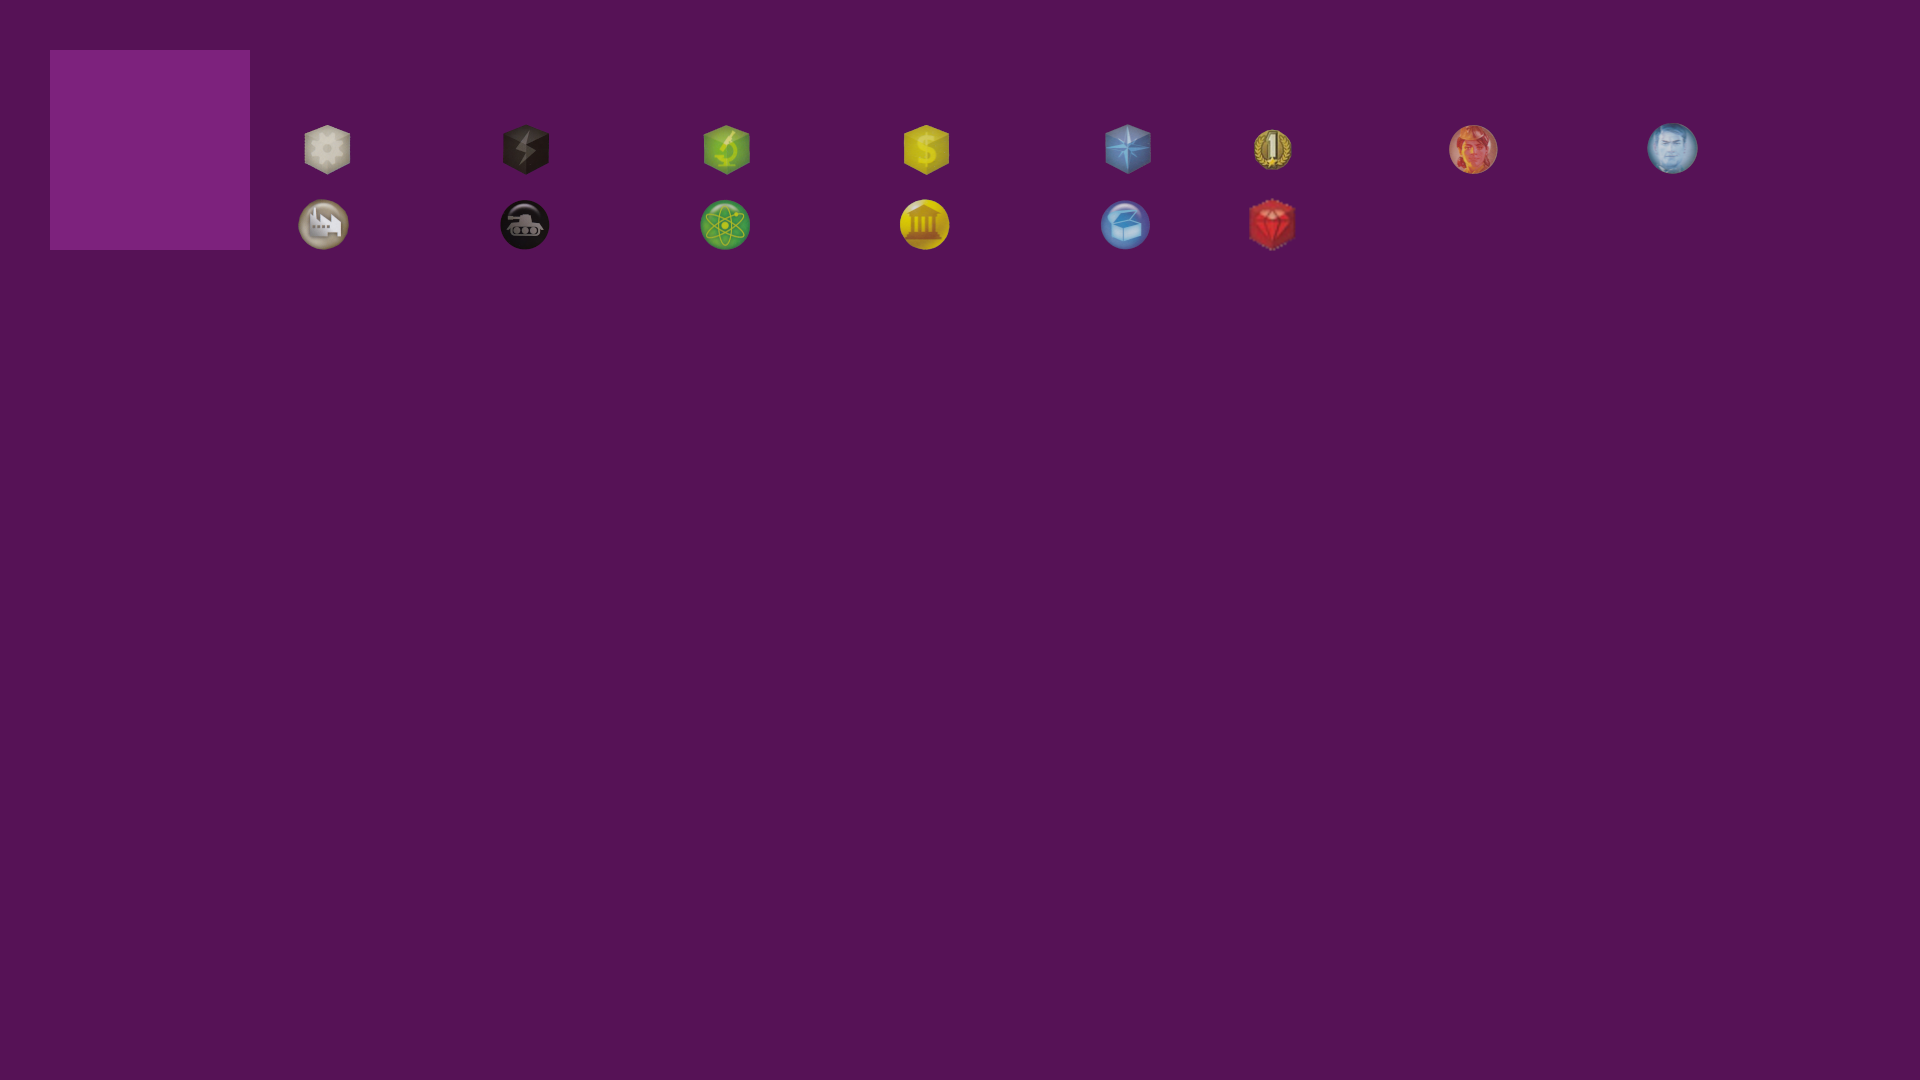
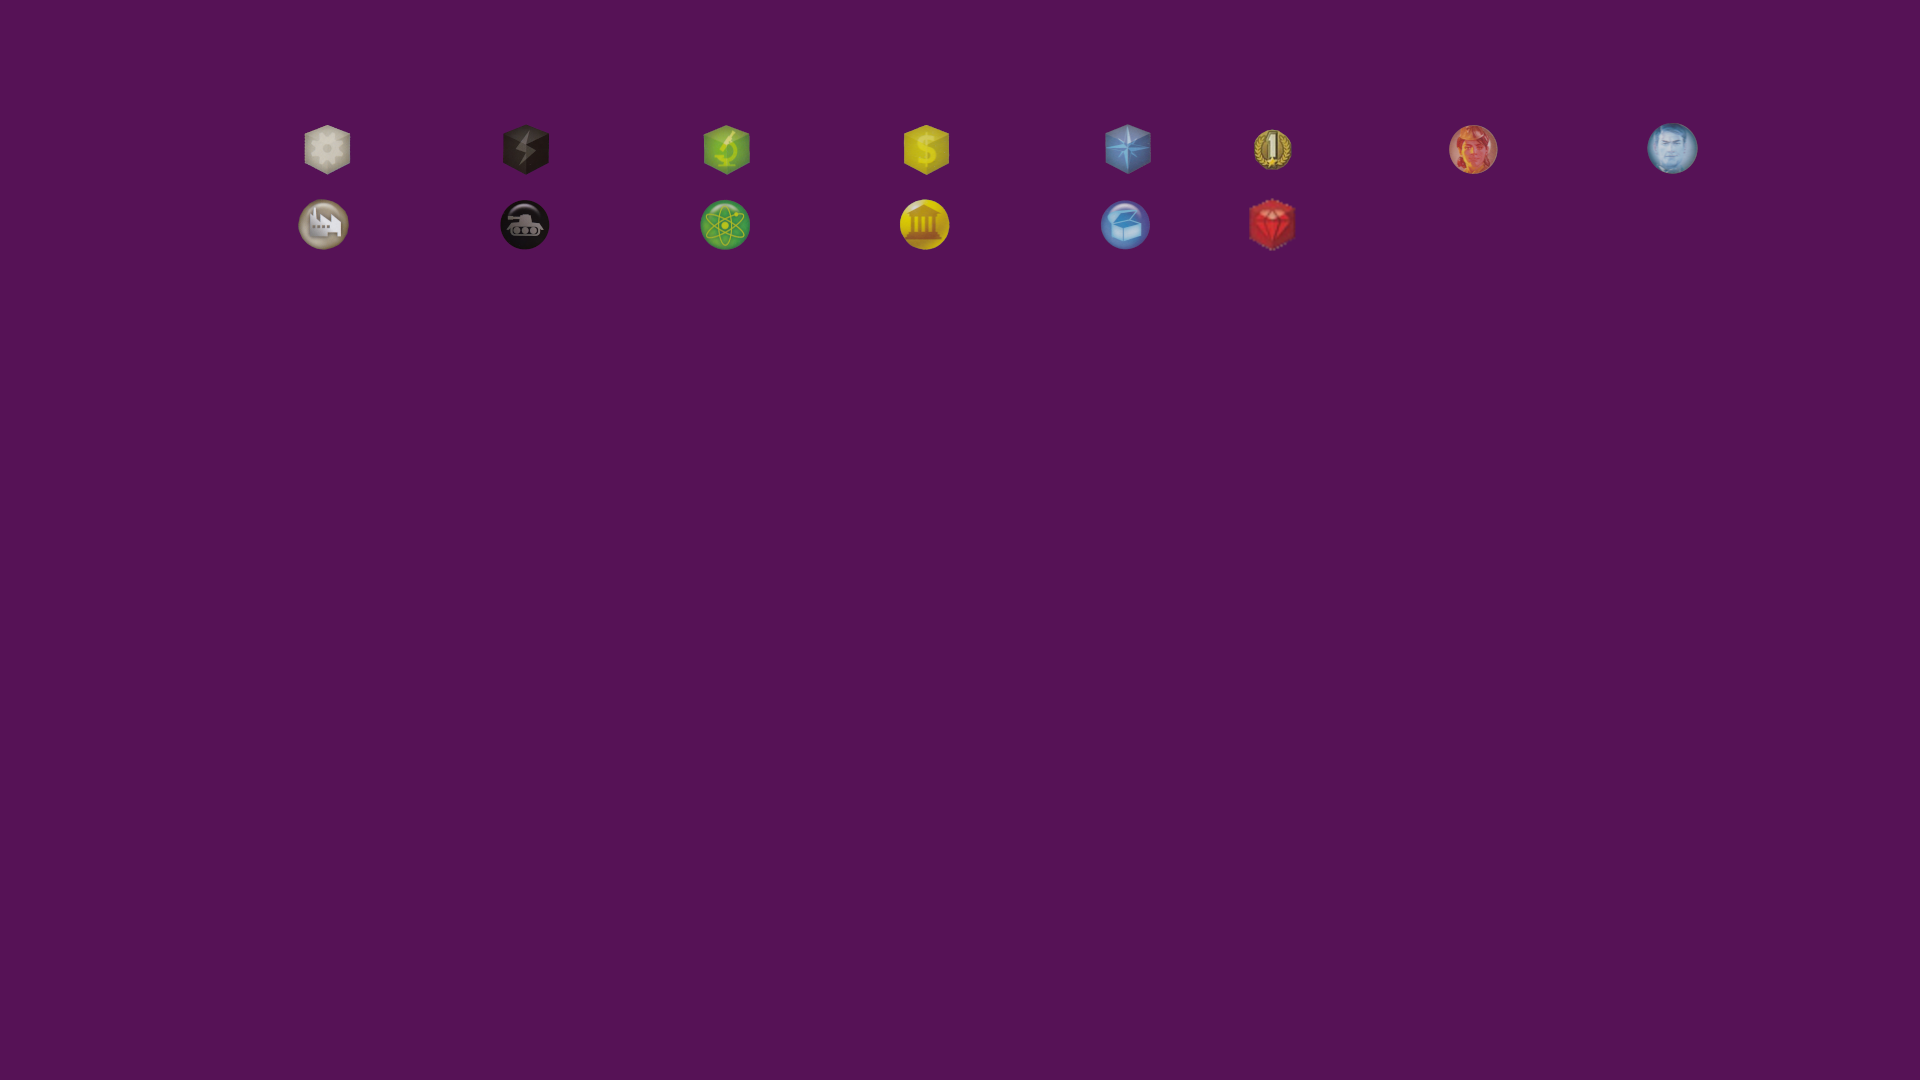
**refactor : Change Profile Picture**
_Commit Description:_

Replace profile pictures by Empire Cards in rendering

[CR #052]

Changed region(s): [[0.0, 0.0306, 0.1562, 0.2444]]

diff --git a/src/client/render/PlayerRenderer.cpp b/src/client/render/PlayerRenderer.cpp
@@ -42,16 +42,14 @@ namespace render {
 			this->sprites.push_back(sprite);					//Sprite
 			this->sprite_transforms.push_back(transform);				//Transform
 
-			
-			// To modify to place empire Card instead
-			//Enter Player Profile Picture (position 1 in sprites)
-			
-			// texture = player->getProfilePicture();
-			// this->textures.push_back(texture);					//Texture
-			// sprite= new sf::Sprite();
-			// sprite->setTexture(*(this->textures[1]));
-			// this->sprites.push_back(sprite);					//Sprite
-			// this->sprite_transforms.push_back(sf::Transform(sprite_transforms[0]).translate(20.f,20.f));				//Transform
+			// Enter Player Empire Card (position 1 in sprites)
+			texture = new sf::Texture();
+			texture->loadFromFile(this->player->getEmpire()->getRelativePathToTexture());
+			this->textures.push_back(texture);					//Texture
+			sprite= new sf::Sprite();
+			sprite->setTexture(*(this->textures[1]));
+			this->sprites.push_back(sprite);					//Sprite
+			this->sprite_transforms.push_back(sf::Transform(sprite_transforms[0]).translate(20.f,20.f).scale(0.2f,0.2f));				//Transform
 
 			//Enter Player Name (position 0 in texts)
 			text = new sf::Text();
@@ -60,7 +58,7 @@ namespace render {
 			text->setCharacterSize(30);
 			text->setFillColor(sf::Color::White);
 			this->texts.push_back(text);			//Text
-			this->text_transforms.push_back(sf::Transform(sprite_transforms[0]).translate(140.f,30.0f));		//Transform
+			this->text_transforms.push_back(sf::Transform(sprite_transforms[0]).translate(200.f,30.0f));		//Transform
 
 			//Enter Resources/Constructions Count (position 1 to 10)
 			for (i=0;i<10;i++){
@@ -94,15 +92,14 @@ namespace render {
 			this->sprites.push_back(sprite);					//Sprite
 			this->sprite_transforms.push_back(transform);				//Transform
 
-			// To modify to place empire Card instead
-
-			//Enter Player Profile Picture (position 1 in sprites)
-			// texture = player->getProfilePicture();
-			// this->textures.push_back(texture);					//Texture
-			// sprite= new sf::Sprite();
-			// sprite->setTexture(*(this->textures[1]));
-			// this->sprites.push_back(sprite);					//Sprite
-			// this->sprite_transforms.push_back(sf::Transform(sprite_transforms[0]).translate(10.f,50.f));				//Transform
+			// Enter Player Empire Card (position 1 in sprites)
+			texture = new sf::Texture();
+			texture->loadFromFile(this->player->getEmpire()->getRelativePathToTexture());
+			this->textures.push_back(texture);					//Texture
+			sprite= new sf::Sprite();
+			sprite->setTexture(*(this->textures[1]));
+			this->sprites.push_back(sprite);					//Sprite
+			this->sprite_transforms.push_back(sf::Transform(sprite_transforms[0]).translate(10.f,50.f).scale(0.2f,0.2f));				//Transform
 
 			//Enter Player Name (position 0 in texts)
 			text = new sf::Text();
@@ -124,15 +121,14 @@ namespace render {
 			this->sprites.push_back(sprite);					//Sprite
 			this->sprite_transforms.push_back(transform);				//Transform
 
-			// To modify to place empire Card instead
-
-			//Enter Player Profile Picture (position 1 in sprites)
-			// texture = player->getProfilePicture();
-			// this->textures.push_back(texture);					//Texture
-			// sprite= new sf::Sprite();
-			// sprite->setTexture(*(this->textures[1]));
-			// this->sprites.push_back(sprite);					//Sprite
-			// this->sprite_transforms.push_back(sf::Transform(sprite_transforms[0]).translate(50.f,50.f).scale(2.f,2.f).scale(1.f,(431.f/375.f)));				//Transform
+			// Enter Player Empire Card (position 1 in sprites)
+			texture = new sf::Texture();
+			texture->loadFromFile(this->player->getEmpire()->getRelativePathToTexture());
+			this->textures.push_back(texture);					//Texture
+			sprite= new sf::Sprite();
+			sprite->setTexture(*(this->textures[1]));
+			this->sprites.push_back(sprite);					//Sprite
+			this->sprite_transforms.push_back(sf::Transform(sprite_transforms[0]).translate(50.f,70.f).scale(0.3f,0.3f));				//Transform
 
 			//Enter Player Name (position 0 in texts)
 			text = new sf::Text();
@@ -219,15 +215,14 @@ namespace render {
 			this->sprites.push_back(sprite);					//Sprite
 			this->sprite_transforms.push_back(sf::Transform(transform).scale(2.f,2.f));				//Transform
 
-			// To modify to place empire Card instead
-
-			//Enter Player Profile Picture (position 3 in sprites)
-			// texture = player->getProfilePicture();
-			// this->textures.push_back(texture);					//Texture
-			// sprite= new sf::Sprite();
-			// sprite->setTexture(*(this->textures[3]));
-			// this->sprites.push_back(sprite);					//Sprite
-			// this->sprite_transforms.push_back(sf::Transform(sprite_transforms[2]).translate(20.f,20.f));				//Transform
+			// Enter Player Empire Card (position 1 in sprites)
+			texture = new sf::Texture();
+			texture->loadFromFile(this->player->getEmpire()->getRelativePathToTexture());
+			this->textures.push_back(texture);					//Texture
+			sprite= new sf::Sprite();
+			sprite->setTexture(*(this->textures[3]));
+			this->sprites.push_back(sprite);					//Sprite
+			this->sprite_transforms.push_back(sf::Transform(transform).translate(40.f,40.f).scale(0.4f,0.4f));				//Transform
 
 			//Enter Player Name (position 0 in texts)
 			text = new sf::Text();
@@ -236,7 +231,7 @@ namespace render {
 			text->setCharacterSize(30);
 			text->setFillColor(sf::Color::White);
 			this->texts.push_back(text);			//Text
-			this->text_transforms.push_back(sf::Transform(sprite_transforms[2]).translate(140.f,30.0f));		//Transform
+			this->text_transforms.push_back(sf::Transform(sprite_transforms[2]).translate(200.f,30.0f));		//Transform
 
 			//Enter Resources/Constructions Count (position 1 to 10)
 			for (i=0;i<10;i++){
